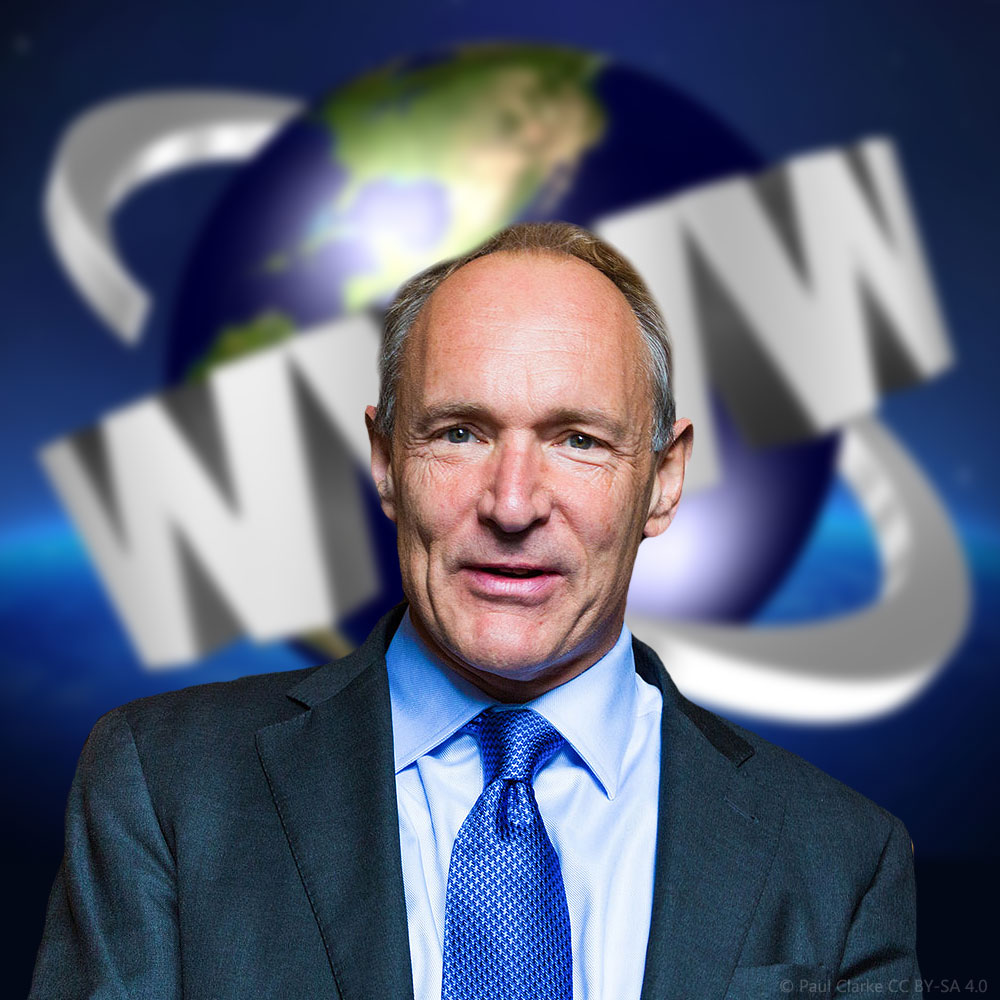
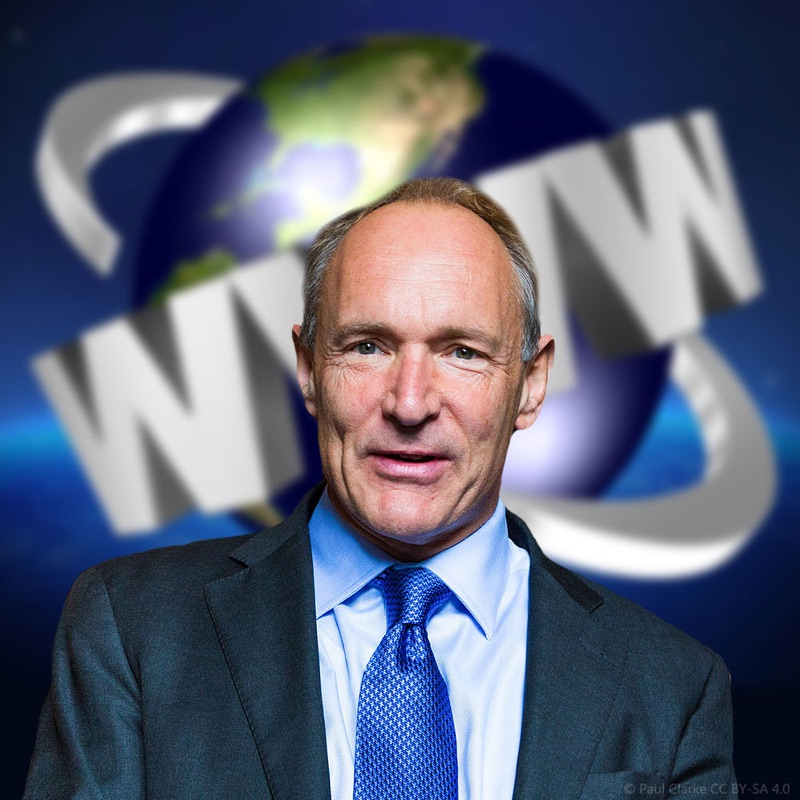
perf: downscale tim/vint photos to 800px, add image dimensions, eager-load detail-page hero images

Changed region(s): [[0.4375, 0.7188, 0.5625, 1.0]]

diff --git a/index.html b/index.html
@@ -11,8 +11,8 @@
   <meta property="og:url" content="https://abdimannor.github.io/web-pioneers/">
   <meta property="og:type" content="website">
   <meta property="og:image" content="https://abdimannor.github.io/web-pioneers/tim.jpg">
-  <meta property="og:image:width" content="1000">
-  <meta property="og:image:height" content="1000">
+  <meta property="og:image:width" content="800">
+  <meta property="og:image:height" content="800">
   <meta property="og:image:alt" content="Tim Berners-Lee">
   <meta name="twitter:image" content="https://abdimannor.github.io/web-pioneers/tim.jpg">
   <meta name="twitter:card" content="summary">
@@ -90,7 +90,7 @@
 
     <section class="profile-grid" aria-label="Profiler">
       <article class="profile-card">
-        <img src="tim.jpg" alt="Tim Berners-Lee" loading="lazy">
+        <img src="tim.jpg" alt="Tim Berners-Lee" width="800" height="800" loading="lazy" decoding="async">
         <div>
           <p class="eyebrow">Webben</p>
           <h2>Tim Berners-Lee</h2>
@@ -100,7 +100,7 @@
       </article>
 
       <article class="profile-card">
-        <img class="portrait-vint" src="vint.jpg" alt="Vint Cerf" loading="lazy">
+        <img class="portrait-vint" src="vint.jpg" alt="Vint Cerf" width="800" height="800" loading="lazy" decoding="async">
         <div>
           <p class="eyebrow">Internetprotokoll</p>
           <h2>Vint Cerf</h2>
@@ -110,7 +110,7 @@
       </article>
 
       <article class="profile-card">
-        <img src="google.jpg" alt="Google-logotyp" loading="lazy">
+        <img src="google.jpg" alt="Google-logotyp" width="910" height="683" loading="lazy" decoding="async">
         <div>
           <p class="eyebrow">Sökbarhet</p>
           <h2>Google</h2>

diff --git a/tim.html b/tim.html
@@ -11,8 +11,8 @@
   <meta property="og:url" content="https://abdimannor.github.io/web-pioneers/tim.html">
   <meta property="og:type" content="website">
   <meta property="og:image" content="https://abdimannor.github.io/web-pioneers/tim.jpg">
-  <meta property="og:image:width" content="1000">
-  <meta property="og:image:height" content="1000">
+  <meta property="og:image:width" content="800">
+  <meta property="og:image:height" content="800">
   <meta property="og:image:alt" content="Tim Berners-Lee">
   <meta name="twitter:image" content="https://abdimannor.github.io/web-pioneers/tim.jpg">
   <meta name="twitter:card" content="summary">
@@ -44,7 +44,7 @@
         <p>Det avgörande var inte bara att information kunde publiceras. Den kunde få en adress, länkas vidare och läsas med samma grundläggande regler oavsett vem som byggde sidan.</p>
         <a class="text-link" href="https://sv.wikipedia.org/wiki/Tim_Berners-Lee" target="_blank" rel="noopener">Fördjupa dig om Tim Berners-Lee</a>
       </div>
-      <img class="portrait-tim" src="tim.jpg" alt="Tim Berners-Lee" loading="lazy">
+      <img class="portrait-tim" src="tim.jpg" alt="Tim Berners-Lee" width="800" height="800" fetchpriority="high">
     </article>
 
     <section class="detail-section" aria-labelledby="tim-importance">

diff --git a/vint.html b/vint.html
@@ -11,8 +11,8 @@
   <meta property="og:url" content="https://abdimannor.github.io/web-pioneers/vint.html">
   <meta property="og:type" content="website">
   <meta property="og:image" content="https://abdimannor.github.io/web-pioneers/vint.jpg">
-  <meta property="og:image:width" content="1200">
-  <meta property="og:image:height" content="1200">
+  <meta property="og:image:width" content="800">
+  <meta property="og:image:height" content="800">
   <meta property="og:image:alt" content="Vint Cerf">
   <meta name="twitter:image" content="https://abdimannor.github.io/web-pioneers/vint.jpg">
   <meta name="twitter:card" content="summary">
@@ -44,7 +44,7 @@
         <p>Hans betydelse ligger i arkitekturen: internet skulle inte vara en plats, en dator eller ett företag, utan ett sätt för många självständiga nät att förstå varandra.</p>
         <a class="text-link" href="https://sv.wikipedia.org/wiki/Vint_Cerf" target="_blank" rel="noopener">Fördjupa dig om Vint Cerf</a>
       </div>
-      <img class="portrait-vint" src="vint.jpg" alt="Vint Cerf" loading="lazy">
+      <img class="portrait-vint" src="vint.jpg" alt="Vint Cerf" width="800" height="800" fetchpriority="high">
     </article>
 
     <section class="detail-section" aria-labelledby="vint-importance">

diff --git a/google.html b/google.html
@@ -44,7 +44,7 @@
         <p>Den tidiga styrkan låg i att tolka länkar som signaler. En sida var inte bara viktig för att den innehöll rätt ord, utan också för att andra sidor pekade dit.</p>
         <a class="text-link" href="https://sv.wikipedia.org/wiki/Google" target="_blank" rel="noopener">Fördjupa dig om Google</a>
       </div>
-      <img src="google.jpg" alt="Google-logotyp" loading="lazy">
+      <img src="google.jpg" alt="Google-logotyp" width="910" height="683" fetchpriority="high">
     </article>
 
     <section class="detail-section" aria-labelledby="google-importance">
